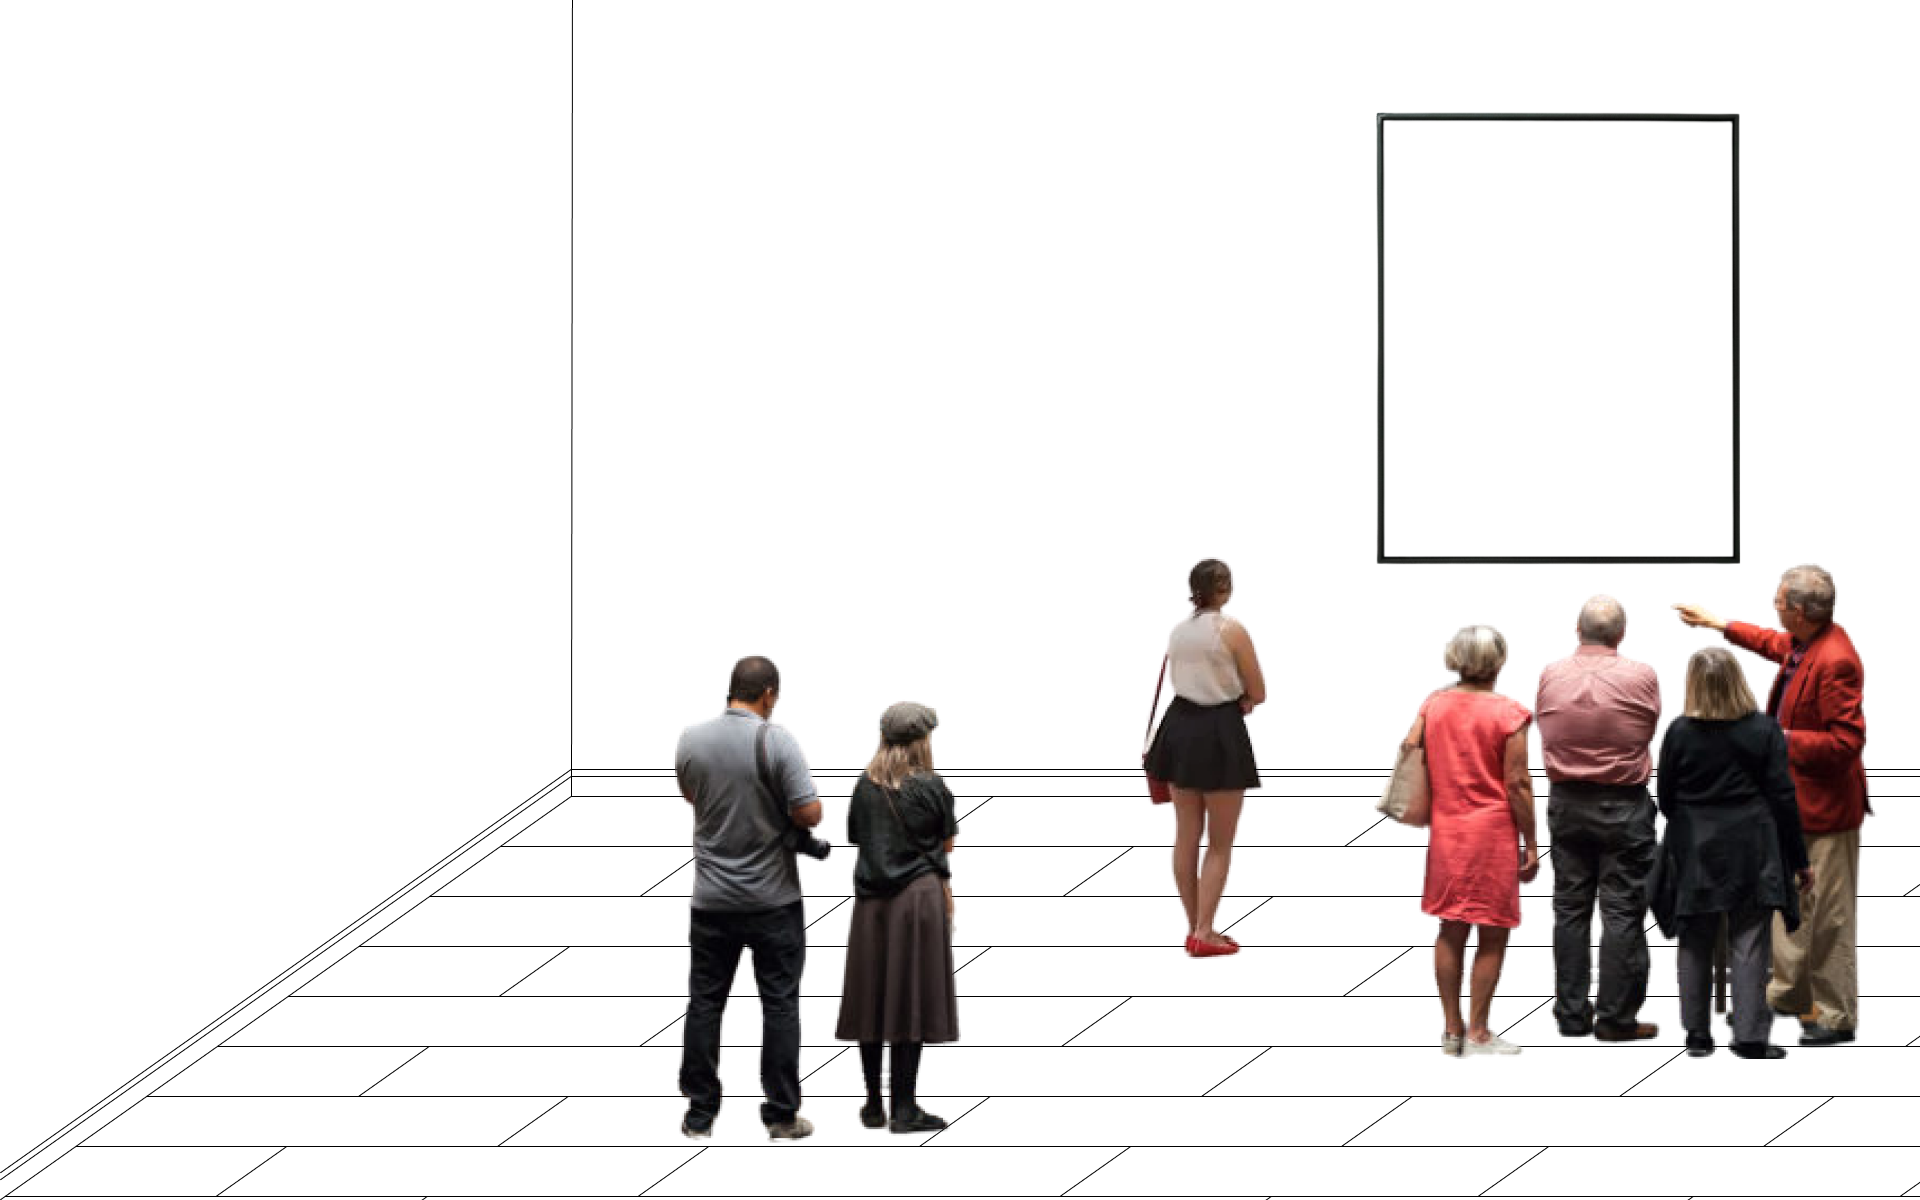
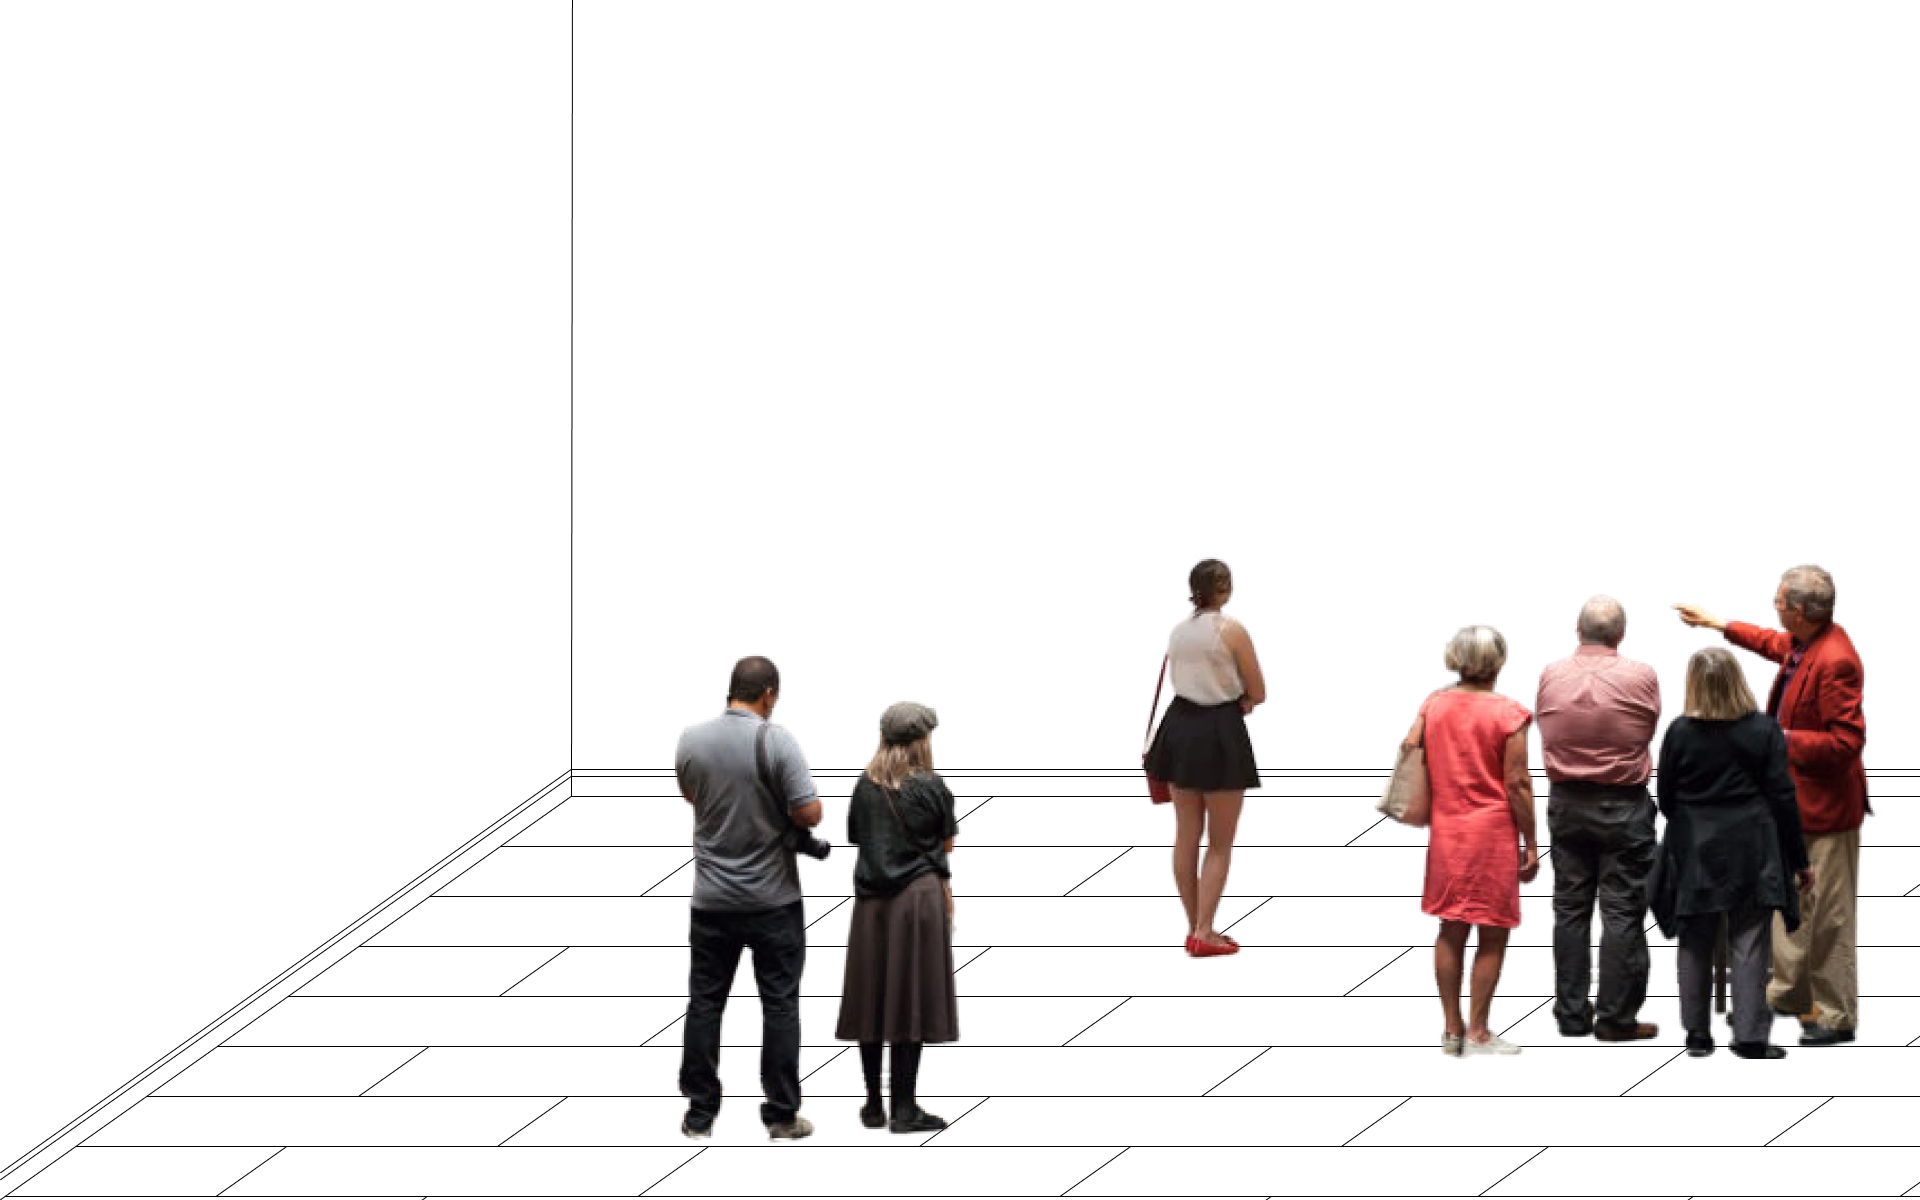
more updates

Changed region(s): [[0.7188, 0.0925, 0.9062, 0.4933]]

diff --git a/src/pages/Home/components/Hero/hero.scss b/src/pages/Home/components/Hero/hero.scss
@@ -6,14 +6,9 @@
 
 .hero-container {
   position: relative;
-  // display: flex;
-  // flex-direction: column;
   align-items: center;
-  // max-height: calc(100vh - 75px - 75px);
   overflow: hidden;
-  // border-bottom: 20px solid darkorange;
   padding-bottom: 200px;
-  // position: absolute;
 
   .hero-text {
     margin: 50px auto;
@@ -29,14 +24,16 @@
     }
 
     h1 {
-      color: $blue;
       font-size: 40pt;
       margin: 0;
+
+      a {
+        color: $blue;
+      }
     }
 
     p,
     h1 {
-      // margin: 0.25em;
       margin: 10px;
       line-height: 40pt;
     }
@@ -44,10 +41,6 @@
 
   .hero-frame {
     overflow: hidden;
-  }
-
-  .hero-frame::before {
-    content: "";
     height: 0;
     padding-top: 70%;
     border: 5px solid black;
@@ -56,18 +49,71 @@
     overflow: hidden;
     box-sizing: border-box;
     display: block;
-    // background-image: url(https://images.bonnier.cloud/files/his/production/2019/09/09030543/monalisa-top-cl0c6spp8iifduekmjtzyq.jpg);
     background-size: cover;
     background-position: center;
+    animation-name: image-rotation;
+    animation-duration: 30s;
+    animation-iteration-count: infinite;
   }
+
+  // .hero-frame::before {
+  //   content: "";
+  //   // height: 0;
+  //   // padding-top: 70%;
+  //   // border: 5px solid black;
+  //   // width: 60%;
+  //   // margin: 0 auto;
+  //   // overflow: hidden;
+  //   // box-sizing: border-box;
+  //   // display: block;
+  //   // background-size: cover;
+  //   // background-position: center;
+  //   // animation-name: image-rotation;
+  //   // animation-duration: 30s;
+  //   // animation-iteration-count: infinite;
+  // }
+
+  // HERO ANIMATION
+
+  @keyframes image-rotation {
+    0% {
+      background-image: none;
+    }
+    12% {
+      background-image: url(../../../../../public/assets/art/undressed.png);
+    }
+    25% {
+      background-image: none;
+    }
+    37% {
+      background-image: url(../../../../../public/assets/art/pink-eye-color.png);
+    }
+
+    50% {
+      background-image: none;
+    }
+
+    62% {
+      background-image: url(../../../../../public/assets/art/absolut-ingenting.png);
+    }
+
+    75% {
+      background-image: none;
+    }
+
+    87% {
+      background-image: url(../../../../../public/assets/art/cocontrast.png);
+    }
+  }
+
+  // .hero-frame {
+  //   position: absolute;
+  // }
 
   .hero-image {
     position: absolute;
     bottom: 0;
     right: 0;
-    // height: 100vh;
-    // width: 100%;
-    // margin-top: 200px;
     height: 50%;
     width: 100%;
     background-image: url(../../../../../public/assets/hero/hero-mobile.png);
@@ -86,6 +132,7 @@
 @media screen and (min-width: 890px) {
   .hero-container {
     .hero-text {
+      position: absolute;
       left: 10%;
       top: 3%;
 
@@ -102,8 +149,15 @@
       }
     }
 
+    .hero-frame {
+      width: 20%;
+      padding-top: 30%;
+      margin: 0;
+    }
+
     .hero-image {
       margin-top: 0;
+      z-index: -1;
       background-image: url(../../../../../public/assets/hero/hero-desktop.png);
     }
   }

diff --git a/src/pages/ArtSingle/ArtSingle.tsx b/src/pages/ArtSingle/ArtSingle.tsx
@@ -20,25 +20,33 @@ export const ArtSingle = () => {
   // );
 
   return (
-    <div id="art-container">
-      <h2>
-        {artwork?.name}{" "}
-        {artwork?.alternateName != undefined
-          ? `// ${artwork.alternateName}`
-          : ""}
-      </h2>
-      {artwork?.alternateImgSrc != undefined ? (
-        <div id="image-slider">
-          <div>
-            <img src={artwork?.alternateImgSrc} alt={artwork?.alternateName} />
+    <>
+      <a href="/exhibition" className="back-link">
+        <i className="bi bi-arrow-left"></i>
+      </a>
+      <div id="art-container">
+        <h2>
+          {artwork?.name}{" "}
+          {artwork?.alternateName != undefined
+            ? `// ${artwork.alternateName}`
+            : ""}
+        </h2>
+        {artwork?.alternateImgSrc != undefined ? (
+          <div id="image-slider">
+            <div>
+              <img
+                src={artwork?.alternateImgSrc}
+                alt={artwork?.alternateName}
+              />
+            </div>
+            <img src={artwork?.imgSrc} alt={artwork?.name} />
           </div>
-          <img src={artwork?.imgSrc} alt={artwork?.name} />
-        </div>
-      ) : (
-        <div id="image-container">
-          <img src={artwork?.imgSrc} alt={artwork?.name} />
-        </div>
-      )}
-    </div>
+        ) : (
+          <div id="image-container">
+            <img src={artwork?.imgSrc} alt={artwork?.name} />
+          </div>
+        )}
+      </div>
+    </>
   );
 };

diff --git a/src/data/Art.tsx b/src/data/Art.tsx
@@ -4,11 +4,27 @@ export const art = [
     alternateName: "Normal eyes",
     imgSrc: "/assets/art/pink-eye-color.png",
     alternateImgSrc: "/assets/art/normal-eyes-black.png",
-    description: "Test",
   },
   {
     name: "Undressed",
     imgSrc: "/assets/art/undressed.png",
-    description: "Test2",
+  },
+  {
+    name: "Cocoface",
+    alternateName: "Cocontrast",
+    imgSrc: "/assets/art/cocoface.png",
+    alternateImgSrc: "/assets/art/cocontrast.png",
+  },
+  {
+    name: "Alicia",
+    imgSrc: "/assets/art/alicia.png",
+  },
+  {
+    name: "Chicken Dinner",
+    imgSrc: "/assets/art/chicken-dinner.png",
+  },
+  {
+    name: "Absolut Ingenting",
+    imgSrc: "/assets/art/absolut-ingenting.png",
   },
 ];

diff --git a/src/components/Header/header.scss b/src/components/Header/header.scss
@@ -86,6 +86,8 @@ header:hover {
 @media screen and (min-width: 768px) {
   header {
     nav {
+      height: 100%;
+
       .hamburger {
         display: none;
       }
@@ -97,11 +99,20 @@ header:hover {
 
       ul {
         display: flex;
+        align-items: center;
         position: initial;
         margin-right: 65px;
+        height: 100%;
 
         li {
-          margin: 1em;
+          height: 100%;
+          padding: 1em;
+          display: flex;
+          align-items: center;
+        }
+
+        li:hover {
+          outline: 1px solid $blue;
         }
       }
     }

diff --git a/src/pages/Shop/Shop.tsx b/src/pages/Shop/Shop.tsx
@@ -1,3 +1,16 @@
+import { Link } from "react-router-dom";
+import { shop } from "../../data/Shop";
+
 export const Shop = () => {
-  return <></>;
+  return (
+    <div id="exhibitions-container">
+      {shop.map((product) => (
+        <div className="art" key={product.name}>
+          <Link to={"/shop/" + product.name}>
+            <img src={product.imgSrc} alt={product.name} />
+          </Link>
+        </div>
+      ))}
+    </div>
+  );
 };

diff --git a/src/pages/Home/components/Hero/Hero.tsx b/src/pages/Home/components/Hero/Hero.tsx
@@ -12,9 +12,7 @@ export const Hero = () => {
         </h1>
       </div>
       <div className="hero-frame"></div>
-      <div className="hero-image">
-        {/* <img src="/assets/art/pink-eye-color.png" alt="Test" /> */}
-      </div>
+      <div className="hero-image"></div>
     </div>
   );
 };

diff --git a/src/pages/Home/components/About/About.tsx b/src/pages/Home/components/About/About.tsx
@@ -1,6 +1,7 @@
 export const About = () => {
   return (
     <div className="about-container">
+      <h1>ABOUT</h1>
       <p>
         Lorem ipsum, dolor sit amet consectetur adipisicing elit. Numquam minima
         eos deserunt maiores, nobis, iure corrupti tempore tempora voluptatum

diff --git a/src/pages/ArtSingle/artSingle.scss b/src/pages/ArtSingle/artSingle.scss
@@ -4,6 +4,21 @@
 
 // STYLING
 
+.back-link {
+  position: absolute;
+  margin: 100px 2em 0;
+  width: fit-content;
+  color: $black;
+
+  i {
+    font-size: 20pt;
+  }
+}
+
+.back-link:hover {
+  color: $blue;
+}
+
 #art-container {
   width: 80%;
   margin: 50px auto;

diff --git a/src/data/Shop.tsx b/src/data/Shop.tsx
@@ -1,0 +1,9 @@
+export const shop = [
+  {
+    name: "Undressed Tee",
+    imgSrc: "/assets/shop/undressed-tee.png",
+    sizes: ["S", "M", "L", "XL"],
+    price: "$39",
+    material: "cotton",
+  },
+];

diff --git a/src/components/Footer/footer.scss b/src/components/Footer/footer.scss
@@ -51,6 +51,7 @@ footer:hover {
       ul {
         flex-direction: row;
         gap: 100px;
+        padding: 0.5em 1.5em;
       }
     }
   }
